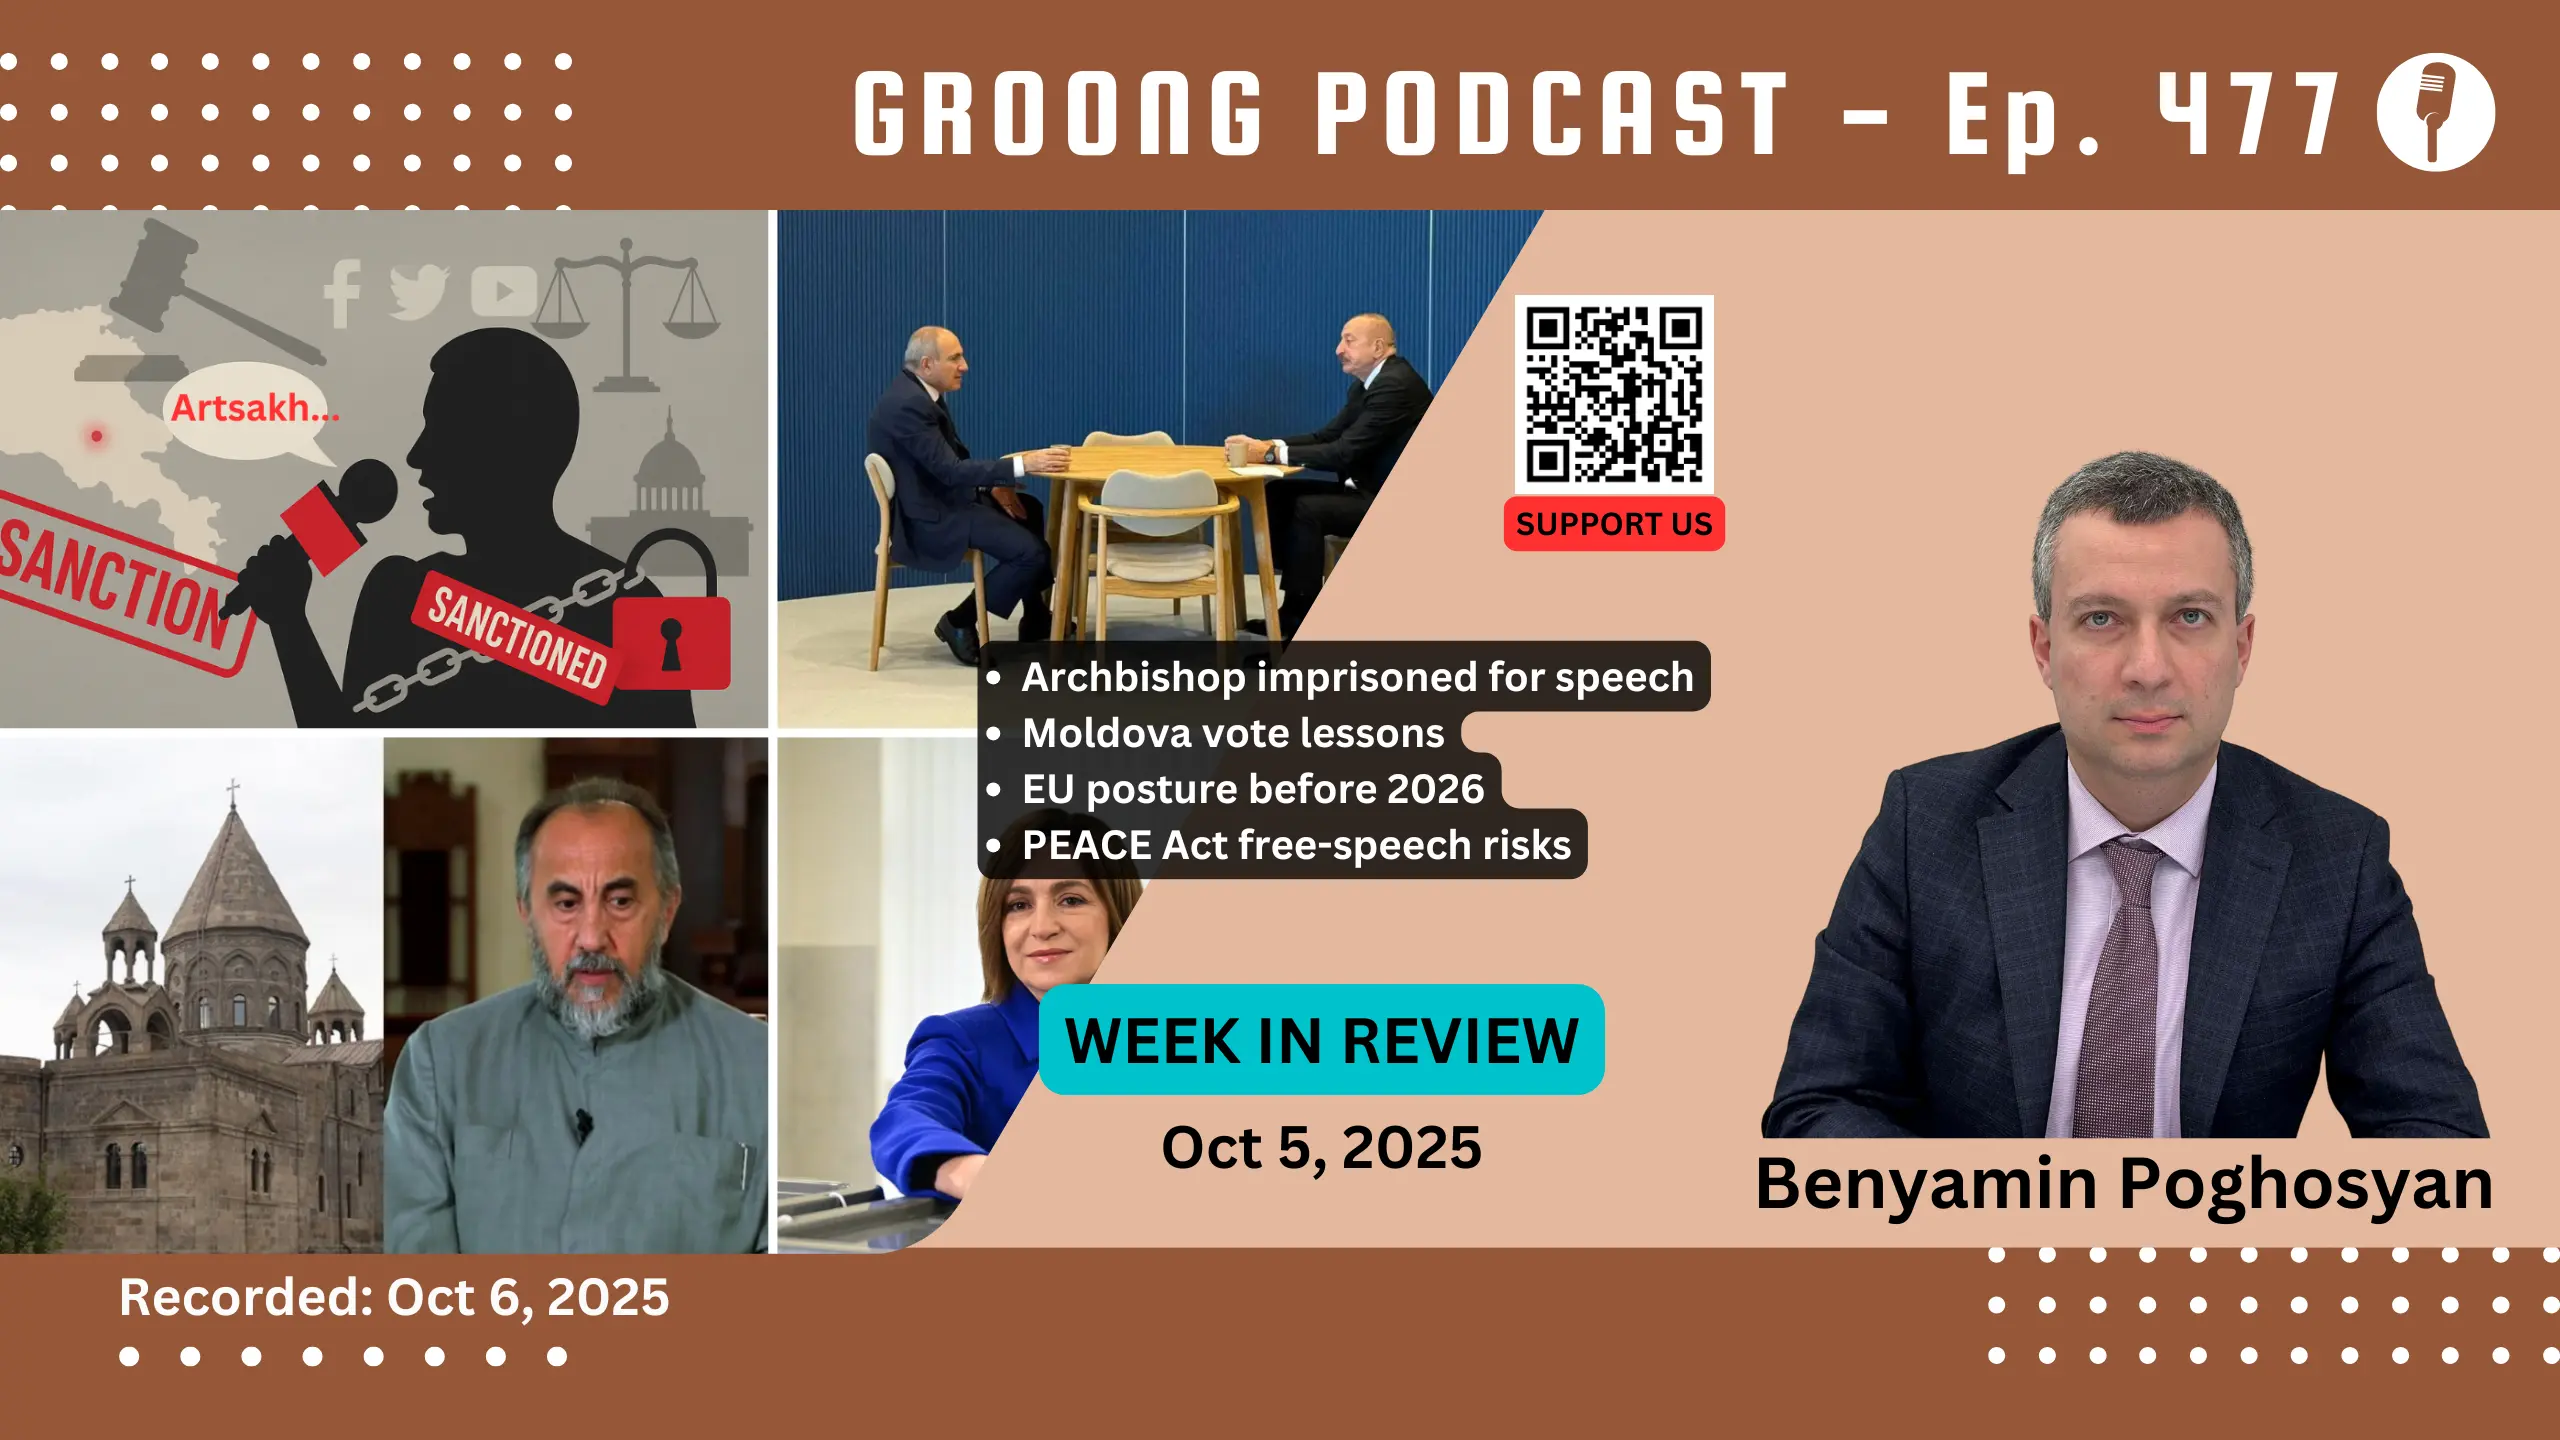
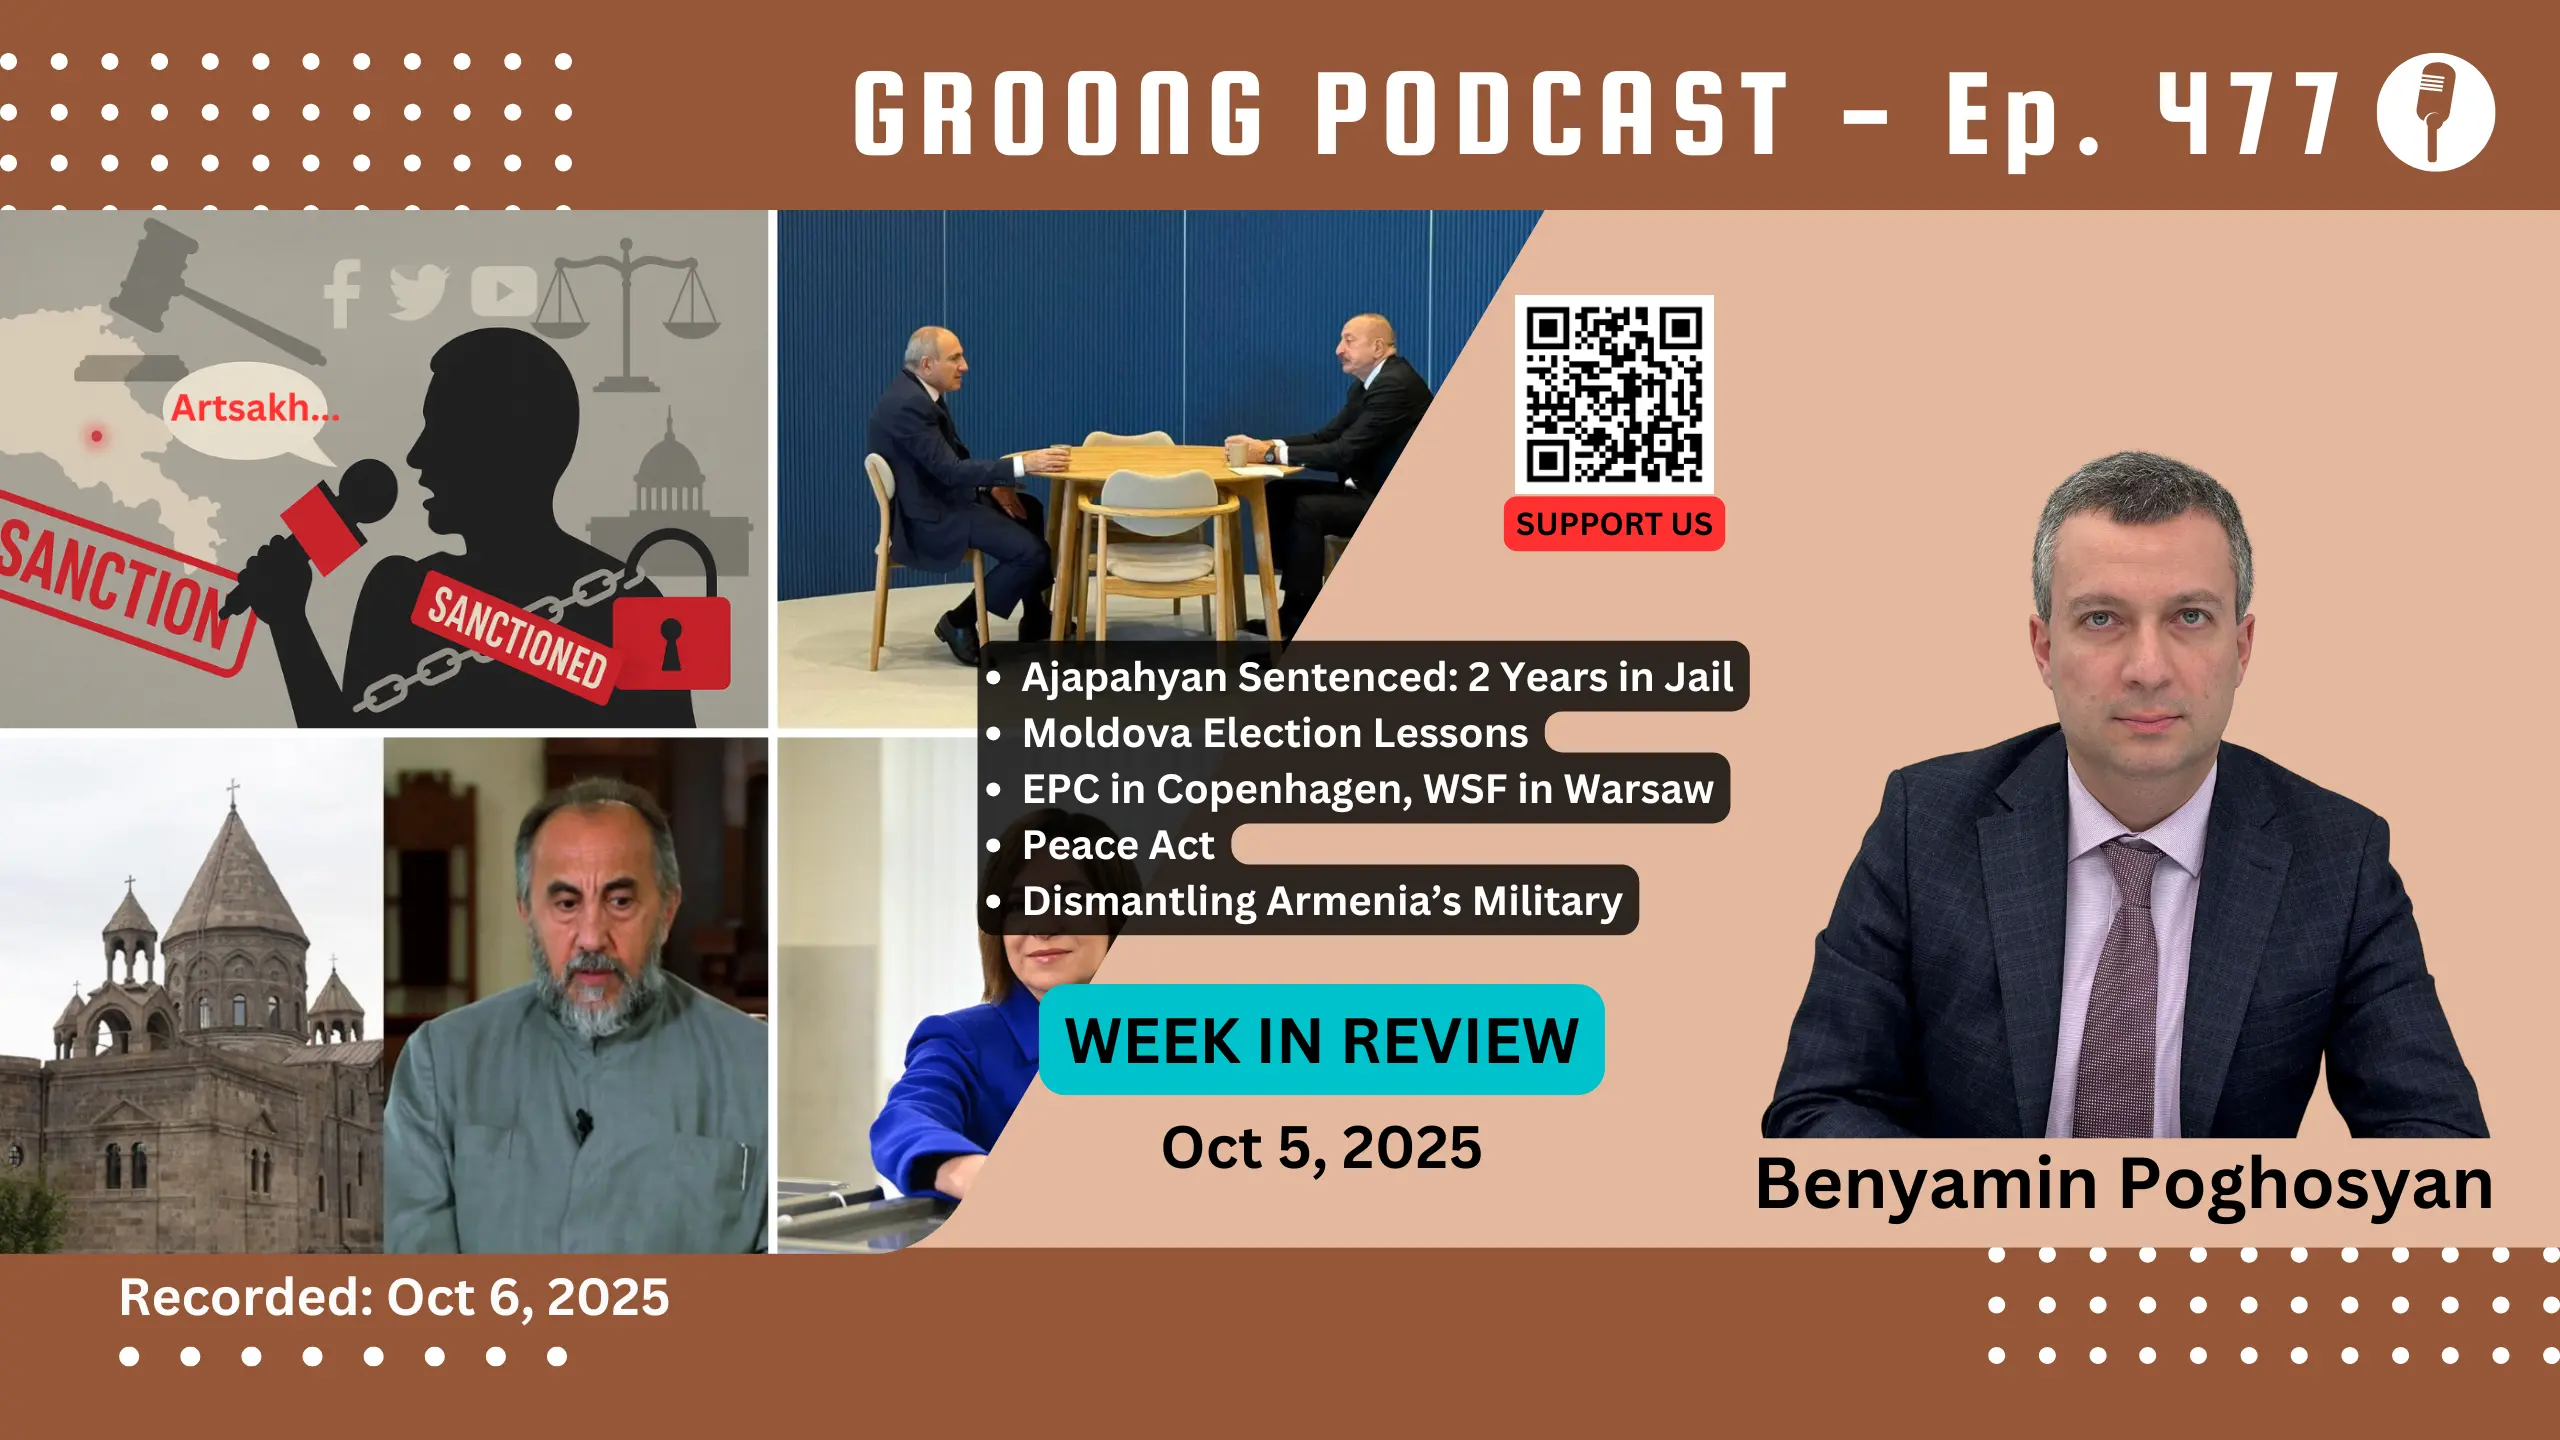
Go live ep 477

Changed region(s): [[0.375, 0.4375, 0.6875, 0.6562]]

diff --git a/content/episode/477-benyamin-poghosyan-ajapahyan-sentencing-moldova-elections-armenia-epc-summit-peace-act-military-personnel-shortages-defense-budget-cuts.md b/content/episode/477-benyamin-poghosyan-ajapahyan-sentencing-moldova-elections-armenia-epc-summit-peace-act-military-personnel-shortages-defense-budget-cuts.md
@@ -1,8 +1,8 @@
 +++
 Date = 2025-10-08T15:20:32-07:00
-upcoming = true
+upcoming = false
 
-title = "Benyamin   Poghosyan - Ajabahyan Sentenced, Moldova, EPC, Peace Act, Dismantling the Armenian Military | Ep 477, Oct 5, 2025"
+title = "Benyamin Poghosyan - Ajapahyan Sentenced, Moldova, EPC, Peace Act, Dismantling the Armenian Military | Ep 477, Oct 5, 2025"
 subtitle = "Groong Week in Review - October 5, 2025"
 
 
@@ -10,10 +10,10 @@ episode_image = "img/episode/477/thumbnail-477.webp"
 episode_banner = "img/episode/477/banner-477.webp"
 images = ["img/episode/477/banner-477.webp"]
 
-podcast_file     = ""
-podcast_duration = ""
-podcast_bytes    = ""
-youtube = ""
+podcast_file     = "17978860-benyamin-poghosyan-ajapahyan-sentenced-moldova-epc-peace-act-dismantling-the-armenian-military-ep-477-oct-5-2025.mp3"
+podcast_duration = "4202"
+podcast_bytes    = "50458083"
+youtube = "I_FOIAiT_7c"
 
 hosts = ["asbed", "hovik"]
 guests = ["bpoghosyan"]
@@ -22,7 +22,7 @@ aliases = ["/477"]
 
 series = ["video", "wir"]
 categories = ["Armenia", "Politics"]
-tags = ["Armenian News", "Artsakh", "Nagorno Karabakh", "Benyamin Poghosyan", "Armenia", "Azerbaijan", "Mikayel Ajabahyan", "Armenian Church", "Nikol Pashinyan", "Samvel Karapetyan", "Archbishop Ajabahyan", "Bagrat Galstanyan", "Maia Sandu", "Moldova", "Moldovan Elections", "EU", "European Union", "Russia", "Ukraine", "Civil Contract", "ARF", "ARF Dashnaktsutyun", "European Political Community", "Warsaw Security Forum", "Warsaw", "Copenhagen", "TRIPP", "Donald Trump", "Trump Route", "Zangezur Corridor", "US Border Control", "Crossroads of Peace", "Iran", "Israel", "12 Day War"]
+tags = ["Armenian News", "Artsakh", "Nagorno Karabakh", "Benyamin Poghosyan", "Armenia", "Azerbaijan", "Mikayel Ajabahyan", "Armenian Church", "Nikol Pashinyan", "Samvel Karapetyan", "Archbishop Ajapahyan", "Bagrat Galstanyan", "Maia Sandu", "Moldova", "Moldovan Elections", "EU", "European Union", "Russia", "Ukraine", "Civil Contract", "ARF", "ARF Dashnaktsutyun", "European Political Community", "Warsaw Security Forum", "Warsaw", "Copenhagen", "TRIPP", "Donald Trump", "Trump Route", "Zangezur Corridor", "US Border Control", "Crossroads of Peace", "Iran", "Israel", "12 Day War"]
 
 Description = """
 
@@ -34,16 +34,58 @@ Description = """
 * [Benyamin Poghosyan](https://podcasts.groong.org/guest/bpoghosyan)
 
 #### Topics:
-* Ajabahyan Sentenced: 2 Years in Jail
+* Ajapahyan Sentenced: 2 Years in Jail for speaking out!
 * Moldova Election Lessons
 * EPC in Copenhagen, WSF in Warsaw
-* Peace Act
-* Dismantling the Military
+* Peace Act politics
+* Dismantling the Armenian Military
 
 Episode 477 | Recorded: October 6, 2025"""
 
 +++
 
+# Summary
+With __Dr. Benyamin Poghosyan__ We cover Archbishop Mikayel Ajapahyan’s two-year sentence and what it signals in an lethargic Armenia, Moldova’s election and diaspora voting, the EU’s patterns of force ahead of Armenia’s 2026 vote, takeaways from the European Political Community (EPC) in Copenhagen and the Warsaw Security Forum (WSF), the politics of the U.S. PEACE Act, defense shifts including a shortened 18-month military service plan contrasted with acknowledged military serviceman shortage, and the internal fight over the stalled 44-day war report.
+
+# Main Topics Addressed
+- Ajapahyan sentencing and public apathy  
+- Moldova vote, access issues, diaspora turnout  
+- EU posture before Armenia’s 2026 elections  
+- EPC Copenhagen and Warsaw takeaways  
+- U.S. PEACE Act and speech risks  
+- Defense budget and 18-month conscription  
+- War report standoff in parliament
+
+# Key Questions Discussed
+- What goal does Ajapahyan’s verdict serve in today’s politics?  
+- What lessons from Moldova matter for Armenia’s 2026 race?  
+- How do EU timing and optics shape Armenia’s field?  
+- Did EPC and Warsaw deliver anything concrete?  
+- How could the PEACE Act affect speech and politics in Armenia?  
+- What trade-offs come with conscription cuts and budget shifts?  
+- Why is the 44-day war report being held back?
+
+## Thoughts from the Participants
+- Benyamin: Warns of heightened political turbulence as Armenia approaches the 2026 elections.
+- Hovik: Notes that Arman Tatoyan has officially entered Armenian politics and flags what this could mean for the opposition landscape.
+
+
+## Referenced Articles & Sources
+- [Armenian archbishop sentenced to 2 years in prison over alleged coup plot](https://abcnews.go.com/International/wireStory/armenian-archbishop-sentenced-2-years-prison-alleged-coup-126192611)  
+- [Prosecutor General’s Office statement on Archbishop Mikael Ajapahyan case](https://prosecutor.am/article/4948)  
+- [Daniel Ioannisyan on Ajapahyan speech complaint](https://www.facebook.com/danioanis/posts/pfbid0mSHu2cyqtmCLxwtCvvNt2XTdPJ62wkGSJiebarT7CiQgNpeFJUxGwNh5D9XrGH4Ql)  
+- [Moldova bars two pro-Russian parties from high-stakes parliamentary election](https://www.pbs.org/newshour/world/moldova-bars-two-pro-russian-parties-from-high-stakes-parliamentary-election)  
+- [How Sandu defeated Putin and what this victory could mean](https://www.eurointegration.com.ua/eng/news/2025/09/29/7221299/)  
+- [Kremlin Claims Moldova Barred Hundreds of Thousands From Voting in Russia](https://www.themoscowtimes.com/2025/09/29/kremlin-claims-moldova-barred-hundreds-of-thousands-from-voting-in-russia-a90655)  
+- [EPC leaders closing session in Copenhagen (video)](https://www.youtube.com/watch?v=fZL-5qH55v4)  
+- [Pashinian, Aliyev Meet Again](https://www.azatutyun.am/a/33547255.html)  
+- [National Assembly adopts statement on establishment of peace between Armenia and Azerbaijan](https://armenpress.am/en/article/1231192)  
+- [Parliament majority drafts declaration endorsing peace deal, calls to avoid aggravating narratives](https://armenpress.am/en/article/1231164)  
+- [ICYMI: Rep. Issa and Rep. Bilirakis Introduce the PEACE Act](https://issa.house.gov/media/press-releases/icymi-rep-issa-and-rep-bilirakis-introduce-peace-act)  
+- [Preventing Escalation and Advancing Caucasus Engagement Act, draft text (PDF)](https://issa.house.gov/sites/evo-subsites/issa.house.gov/files/evo-media-document/peace-act-10.2.25.pdf)  
+- [Armenian Government Plans Shorter Military Service](https://www.azatutyun.am/a/33527942.html)  
+- [Armenian Official Admits Military Personnel Shortage](https://www.azatutyun.am/a/33545240.html)  
+- [Armenian servicemen return medals in protest against government policies](https://www.panorama.am/en/news/2025/10/02/military-medals/3142010)
 
 
 # Wrap-up
